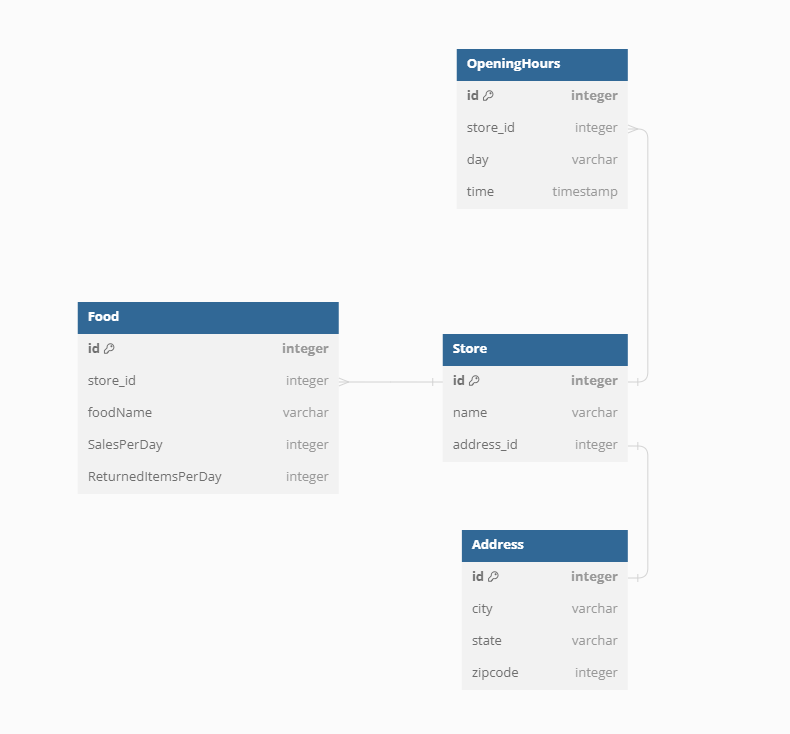
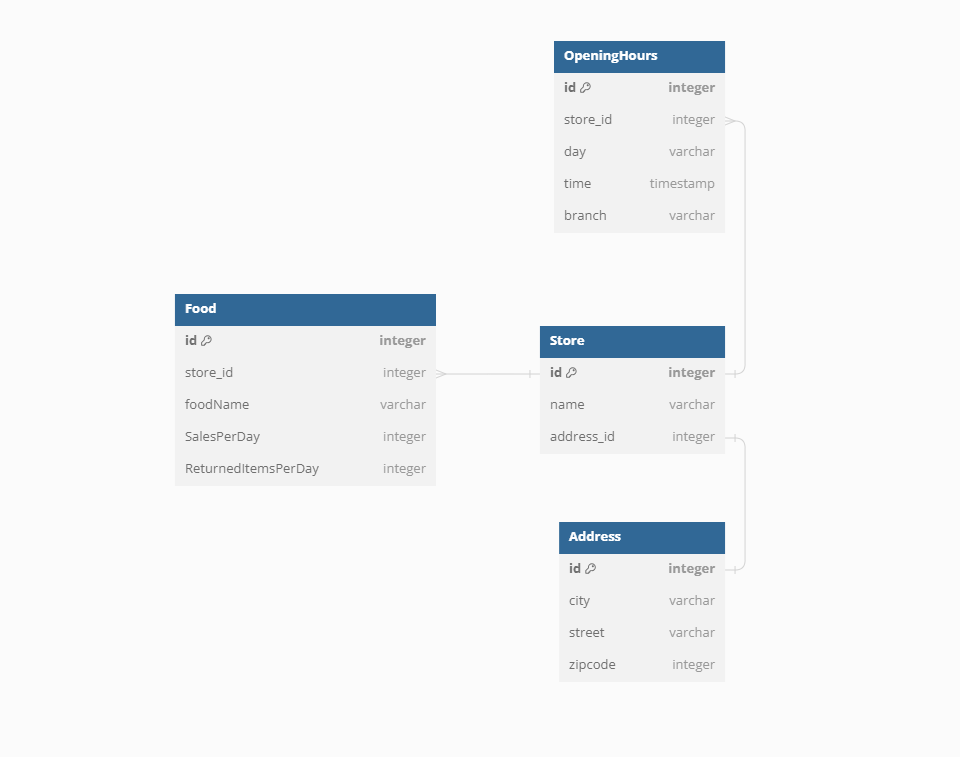
add test scenarios, update sprint 2 details in  the README,

diff --git a/store/models.py b/store/models.py
@@ -4,7 +4,6 @@ class Address(models.Model):
     """
     Define address object
     """
-    
     street = models.CharField(max_length=200, null=False, blank=False)
     zipcode = models.IntegerField()
     city = models.CharField(max_length=200, null=False, blank=False)

diff --git a/README.md b/README.md
@@ -1,26 +1,22 @@
 
 - [Goal](#goal)
-- [User stories](#user-stories)
 - [Analysis](#analysis)
+- [User stories](#user-stories)
   - [Database](#database)
   - [API](#api)
 - [Agile development process](#agile-development-process)
 - [Existing features](#existing-features)
 - [Test scenario](#test-scenario)
-- [Validation](#validation)
 - [Development](#development)
 - [Aknowledgement](#aknowledgement)
 
 
-
 # Goal
-Build a simple REST API using Django, which should allow users to perform the following actions:
-- Create a new store.
-- Retrieve a single store by ID.
-- Retrieve a list of all stores.
-- Update an existing store (with all fields).
-- Delete an existing store.
+Build a simple and flexible REST API using Django, the api should consist of a number of nested objects and every nested object could be added individually, modified and deleted also.
 
+# Analysis
+I assumed the data that have been expressed in the `Test case` requirements could be extended by adding more properties, so the API could express more specific details about the `Store`.
+The process of creating the API will start be creating the database tables first, then i am going to use the Django Serializer to transform the models into JSON format, and the functionalities that perform the CRUD.
 
 # User stories
 User stories has been divided and done within fixed iterations, each iteration last for 5 days.
@@ -30,16 +26,17 @@ User stories has been divided and done within fixed iterations, each iteration l
 - As a user i can retrieve all  `Stores` data, so i can review them.
 - As a user i can retrieve a single `Store` data, so i can manipulate all of some of it's details.
 - As a user i can update an existing `Store` data, so i can have up to date data.
-- As a user i can remove a `Store` data, so i can keep my API clean for unnecessary data. 
-- 
+- As a user i can remove a `Store` data, so i can keep my API clean from unnecessary data. 
 
 ### **Epic 2 - Extend the Store properties**
-- As a user i can retrieve  the `OpeningHours`per each day of every `Branch` , so i can update the `OpeningHours` for specific days (considering that every store has got different branches).
-- As s user i can retrieve the list of `Foods` that the `Store` offers, so i can use this data.
+- As a user i can add  `OpeningHours` times individually for specific `store`.
+- As s user i can retrieve the list of `OpeningHours` that the `Store` offers, so i can review this data.
+- As a user i can retrieve  the `OpeningHours` of every `Branch` per each day, so i can update the `OpeningHours` for specific days (considering that every store has got different branches).
+- As a user i can add  `Foods` items  individually for specific `store`.
+- As s user i can retrieve the list of `Foods` that the `Store` offers, so i can review this data.
+- As a user i can update specific  `Foods` item  , so i so i can have up to date `Foods` data.
+- As a user i can remove a `Foods` data, so i can keep my API clean from unnecessary data.  
 
-# Analysis
-I assumed the data that have been expressed in the requirements could be extended by adding more properties, so the API could express more specific details about the `Store`.
-The process of creating the API will start be creating the database tables first, then i am going to use the Django Serializer to transform the models into JSON format.
 
 ## Database
 The ERD below shows 4 tables, mainly the `Store` is connected to three tables `Address` `OpeningHours` `Food` through `OneToOne` and `OneToMany` relationships.
@@ -69,28 +66,45 @@ I have followed the iterative approach, each sprint last for 5 days.
     - [x] [Extend Store model, add new properties](https://github.com/Nazek-Altayeb/FoodTrack_Assessment/issues/6)<span style="color:#5319E7">should have</span>
 
 - **Sprint 2 (Dec 18th To 22nd, 2023)**
-    - [x] [Link OpeningHours to specific Branch](https://github.com/Nazek-Altayeb/FoodTrack_Assessment/issues/7)<span style="color:#5319E7">should have</span>
-    - [x] [Link Foods to specific Store](https://github.com/Nazek-Altayeb/FoodTrack_Assessment/issues/8)<span style="color:#5319E7">should have</span>
+    - [x] [Add opening time individually](https://github.com/Nazek-Altayeb/FoodTrack_Assessment/issues/7)<span style="color:#5319E7">should have</span>
+    - [x] [Add opening time individually](https://github.com/Nazek-Altayeb/FoodTrack_Assessment/issues/8)<span style="color:#5319E7">should have</span>
 
 
 # Existing features
-1. Retrieve all sets of `Store` data , update or delete specific Store data according to a given `Id`
-2. Update the `Store` and it's nested objects according to a given `Id`
-3. Retrieve all `Foods` data, update or delete specific Food item according to a given `Id`
-4. Retrieve all `OpeningHours` data, update or delete specific Opening time and day according to a given `Id`
+1. Retrieve all sets of `Store` data , update or delete specific Store data according to a given `Id`.
+2. Update the `Store` and it's nested objects according to a given `Id`.
+3. Retrieve all `Foods` data.
+4. Add new `Foods` items, according to a given `store_id`.
+5. update or delete specific Food item according to a given `id`.
+6. Retrieve all `OpeningHours` data.
+7. Add new `OpeningHours` times, according to a given `store_id`.
+8. update or delete specific Food item according to a given `id`.
+
 
 # Test scenario
-1. Run the server `python manage.py runserver`
-2. With the use of Postman  API hub , add the following `/stores` to the given link.
-    - choose GET, as a result all items will be listed in JSON format.
-    - choose GET and add `/<int>` : `the int must be an existing store-Id` to the existing link , as a result only the mean item details will be displayed.
-    - choose POST, enter a new store details except the `Ids`, as a result a new store is created and displayed as well in the response area. 
-    - choose PUT, copy and paste one of the existing stores details, then manipulate the data, as a result the store details will be changed with the new ones.
-    - choose DELETE, and add `/<int>` : `the int must be an existing store-Id`  to the existing link, the mean item should be no more exist in the list.
+1. Run the server `python manage.py runserver`, keep the `server link`.
+2. With the use of Postman  API hub (or any similar tool), add  the following urls to the given `server link` and perform following tests.
 
+### Test against the Store 
+    - choose GET, add `/stores` as a result all stores objects will be listed in a JSON format.
+    - choose GET add `/stores/<int>` : `the int must be an existing store-Id` , as a result only the mean store  details will be displayed.
+    - choose POST, add `/stores/` enter a new store details except the `Id`, as a result a new store is created and displayed as well in the response area. 
+    - choose PUT, add  add `/stores`,  copy and paste one of the existing stores details, then manipulate the data, as a result the store details will be changed with the new ones.
+    - choose DELETE, and add `/stores/<int>` : `the int must be an existing store-Id`  to the existing link, the mean item should be no more exist in the list.
 
-# Validation
-- Testing against python files has been perfomed using Python Linter, the following are the results.....(TO DO )
+### Test against the Opening times
+    - choose GET, add `/openingHours` as a result all opening times  objects will be listed in a JSON format.
+    - choose GET add `/openingHours/<int>` : `the int must be an existing openingHours-Id` , as a result only the mean opening time  details will be displayed.
+    - choose POST, add `/addOpeningHour/<int>` : `the int must be an existing store-Id`enter a new opening time  , as a result a new opening time  is created as a nested object in the specified store. Results will be  displayed in the response area. 
+    - choose PUT, add `/openingHours/<int>` : `the int must be an existing openingHours-Id`,  copy and paste one of the existing opening time  details, then manipulate the data, as a result the opening time details will be changed with the new ones.
+    - choose DELETE, and add `/openingHours/<int>` : `the int must be an existing openingHours-Id`  to the existing link, the mean item should be no more exist in the list.
+
+### Test against the Food 
+    - choose GET, add `/openingHours` as a result all opening times  objects will be listed in a JSON format.
+    - choose GET add `/openingHours/<int>` : `the int must be an existing openingHours-Id` , as a result only the mean opening time  details will be displayed.
+    - choose POST, add `/addOpeningHour/<int>` : `the int must be an existing store-Id`enter a new opening time  , as a result a new opening time  is created as a nested object in the specified store. Results will be  displayed in the response area. 
+    - choose PUT, add `/openingHours/<int>` : `the int must be an existing openingHours-Id`,  copy and paste one of the existing opening time  details, then manipulate the data, as a result the opening time details will be changed with the new ones.
+    - choose DELETE, and add `/openingHours/<int>` : `the int must be an existing openingHours-Id`  to the existing link, the mean item should be no more exist in the list.
 
 
 # Development
